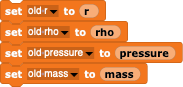
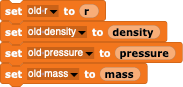
corrections

Changed region(s): [[0.2459, 0.2299, 0.929, 0.4828]]

diff --git a/Examples/StellarStructure/README.md b/Examples/StellarStructure/README.md
@@ -42,13 +42,18 @@ In order to derive the structure of the star or planet, we have to start at the 
 
 ## Solving the equations
 
-For our *Snap!* simulation, we first need to create some blocks for our basic physics.
+For our *Snap!* simulation, we first need to create some blocks for our basic physics and variables for our necessary physical quantities.
 - Create a block that returns the pressure given a density: ![pressure(density)](./images/pressure.png).
-- Create a block that returns the density given a pressure: ![density(pressure)](./images/density.png).
+- Create a block that returns the density given a pressure (just invert the equation): ![density(pressure)](./images/density.png).
+- Create some variables for pressure, density, radius (here, called "r"), and radial step (here called "dr" for "delta-r").
 
-Then, we need some variables for pressure, density, radius, and radial step. These have to be initialized, e.g.
+The calculation needs some start values for the central density and the radial step.  The higher the density, the more mass your object will end up with.  The smaller the radial integration step, the finer your integration will be but the longer it will take.
+
+After the two input variables have been set, we can initialized the rest, e.g.
 
 ![initialize](./images/initialize.png)
+
+where, here, the initial mass has been set to a small sphere of radius "dr" with the intial density.
 
 For each integration step, we want to calculate things from the old values (e.g. the mass below the current radius), so it's good to store the old values before one starts changing to the new ones:
 
@@ -66,16 +71,27 @@ and the pressure:
 
 ![change pressure](./images/change_pressure.png)
 
-Finally, we save the new density, calculated from the new pressure.
 Note that we're **decreasing** the pressure : if the new pressure is less than zero, we've reached the outer edge of our star/planet, so we might as well set the pressure to zero.
 
-![change density](./images/no_deg_pressure.png)
+![if pressure negative](./images/if_pressure_negative.png)
+
+Finally, we save the new density, calculated from the new pressure.
+
+![set density](./images/set_density.png)
 
 All of this has to be put into a loop that starts and continues until the pressure is zero.  Since it's interesting to know just how many iterations it took to reach the surface, you probably want to keep track.
 
 ![integrate](./images/integrate.png)
 
-(here, all of the calculations listed above have been put into an "update" block).
+(here, all of the calculations for a single step listed above have been put into an "update" block).
+
+---
+
+## Test your simulation
+
+If you have used a white dwarf equation of state, try to obtain a model for the white dwarf in the double-star system Sirius (the hot companion star is the brightest star in the northern sky) with a mass of 1.02 Solar Masses and a radius of 0.084 Solar Radii.  How close can you get?
+
+Once your simulation works, try different radial steps: how does the result depend upon your choice?  How small does the step have to be relative to the final radius in order to attain 1% internal precision ("precision" means internal accuracy)?
 
 ---
 
@@ -95,7 +111,7 @@ How does this change affect the masses and radii of your white dwarf simulations
 
 - Write a simulation that calculates the radii of white dwarfs as a function of a range of masses and compare this with the observed "mass-radius relation" you can find in the internet.
 
-- The Equation of State for very dense cold material (by stellar standards) can be approximated as a power-law. Such conditions are appropriate in the cores of massive planets like Jupiter and Saturn.  Try to find an Equation of State that will give you the right mass and radius for Jupiter.  Apply your model to Saturn, Uranus and Neptune - how well does it work?
+- The Equation of State for very dense cold material (by stellar standards) can be also be approximated as a power-law. Such conditions are appropriate in the cores of massive planets like Jupiter and Saturn.  Try to find an Equation of State that will give you the right mass and radius for Jupiter.  Apply your model to Saturn, Uranus and Neptune - how well does it work?
 
-- What power-law equation of State will produce a reasonable model for the structure of the Sun?
+- What power-law equation of State will produce a reasonable empirical model for the structure of the Sun (where the radius and mass come out fairly accurately)?
 
